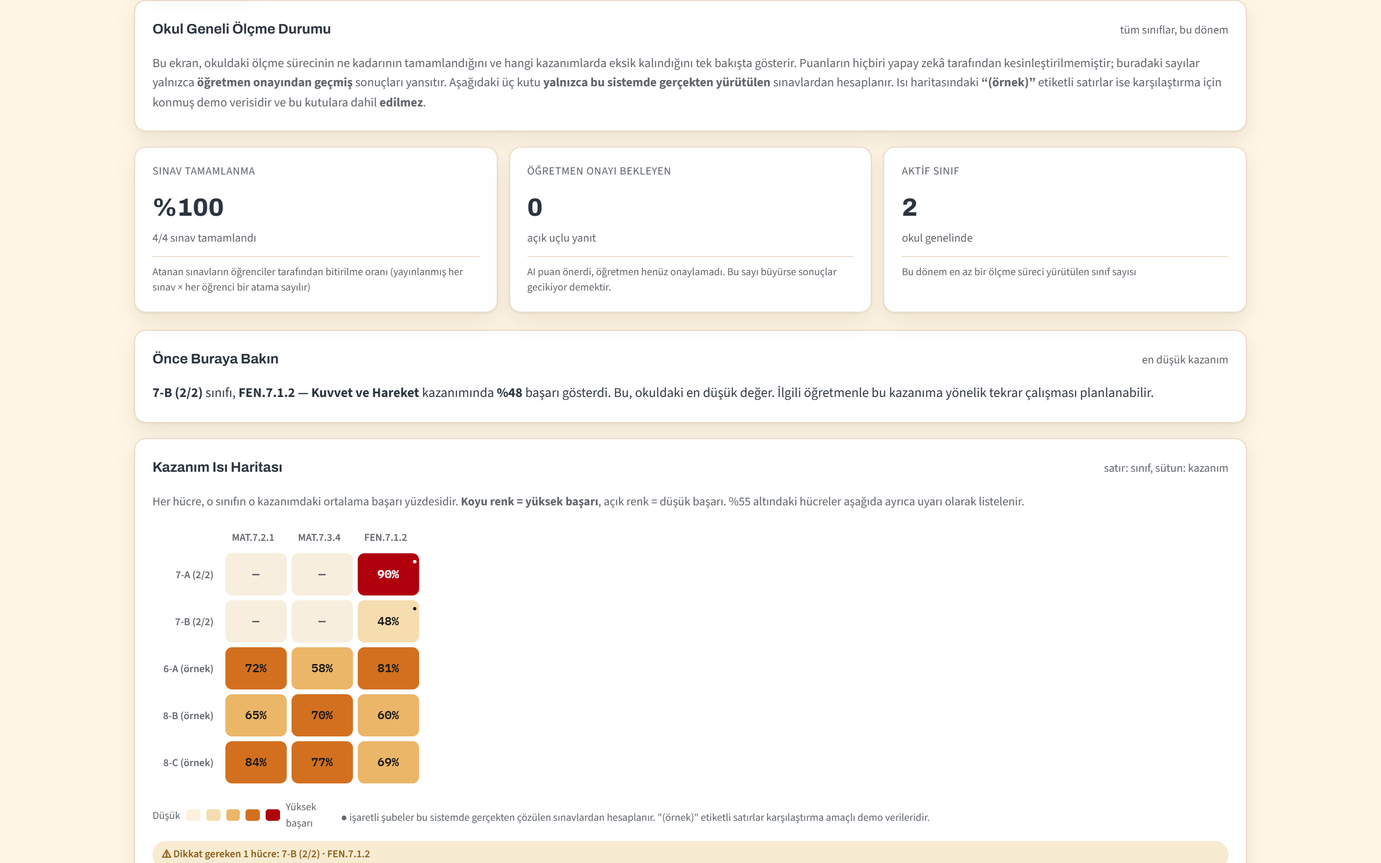
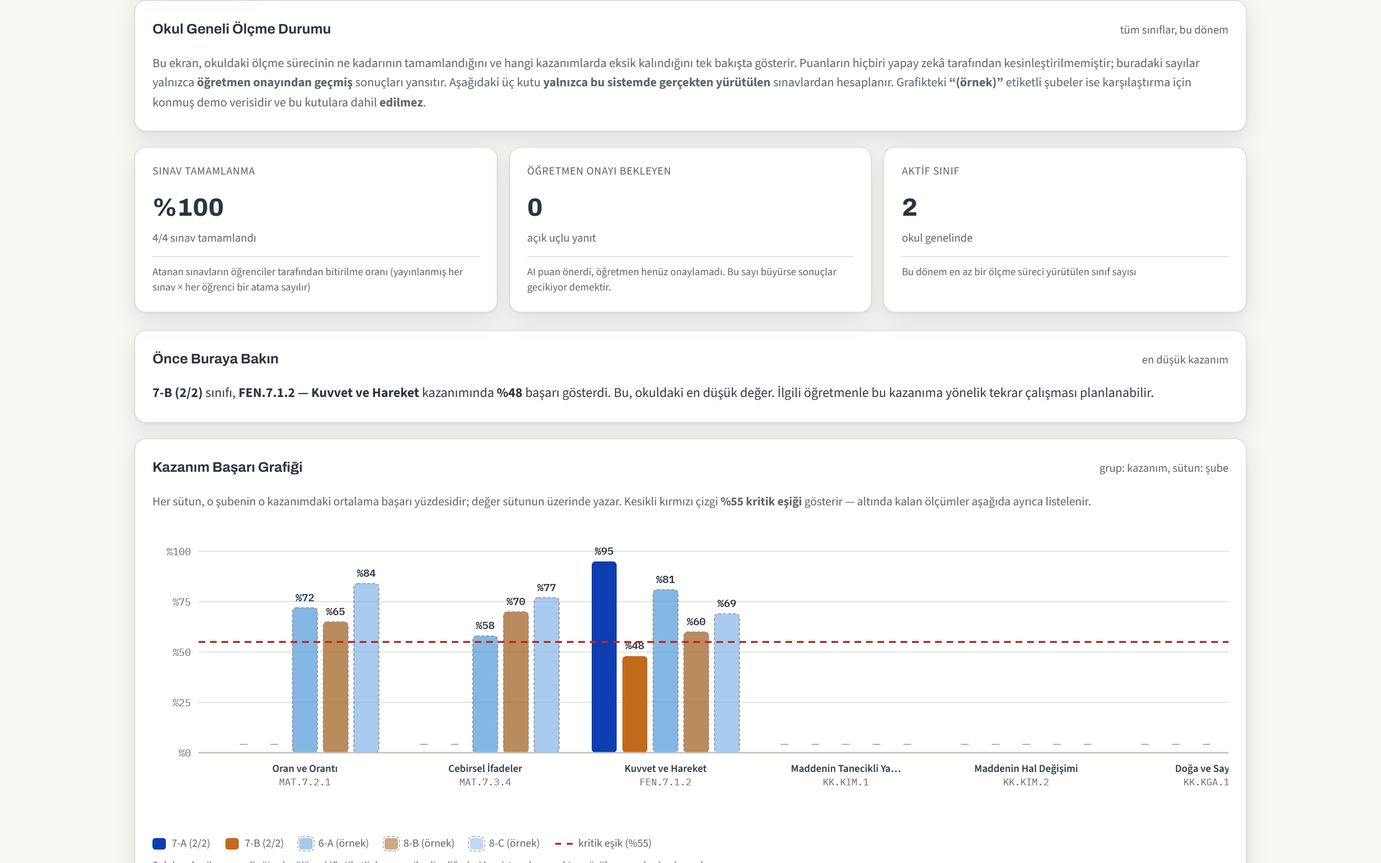
docs: depo eksiksizlik turu — belgeler, ekran görüntüleri, üründe kalan bayat metin (§50g)
Belgelerdeki bayat sayılar düzeltildi (243->263, 6->7 dosya, 326->336 ad,
Version, agents bandı §48b->§50f, README '48 bölüm'->'50 bölüm').
README'ye §49-§50 turları eklendi.

Ekran görüntüsü okunurken ÜRÜNDE bayat metin bulundu: üç kullanıcı metni
kaldırılmış ısı haritasına atıf yapıyordu. Düzeltildi; kod yorumlarındaki
tarihsel ifadelere dokunulmadı. Betikteki ölü .heatmap seçicisi atıldı.

Ekran görüntüleri iki kez çekildi: ilki string düzeltmesinden önceydi ve
artık olmayan bir cümleyi sergiliyordu (§45.1'in aynısı). Düzeltme canlıya
alındıktan sonra yeniden çekildi. Konsol hatası 0.

263/263 · lint temiz · öz-kontrol 336 ad %100 · Version 518cdeb7

diff --git a/public/app.js b/public/app.js
@@ -1397,7 +1397,7 @@ const DEMO_ADIMLARI = [
     hazir: function () { return state.examStatus === "graded"; },
     kilit: "Önce değerlendirmeleri onaylayıp sonuçları yayınlayın" },
   { no: 5, rol: "admin", sekme: null, roleAd: "Eğitim Yöneticisi",
-    aciklama: "Öğretmenin yayınladığı sonuçlar analiz ekranına ve kazanım ısı haritasına düştü.",
+    aciklama: "Öğretmenin yayınladığı sonuçlar analiz ekranına ve kazanım başarı grafiğine düştü.",
     sonraki: "Demoyu Bitir",
     hazir: function () { return true; },
     kilit: "" },
@@ -7369,7 +7369,7 @@ function misconceptionHtml() {
 
   return '<div class="card" style="margin-top:18px;">' +
     '<div class="card-head"><h3>Kavram Yanılgısı Analizi</h3>' +
-    '<span class="hint">ısı haritası "hangi kazanım zayıf" der, bu bölüm "neden zayıf" der</span></div>' +
+    '<span class="hint">başarı grafiği "hangi kazanım zayıf" der, bu bölüm "neden zayıf" der</span></div>' +
     '<div class="mis-giris">Sınıfın açık uçlu yanıtlarında <b>en az iki öğrencide tekrarlayan</b> ' +
     "hatalar gruplanır. Bu bir puanlama değildir, hiçbir öğrencinin notunu etkilemez; " +
     "yarın sınıfta neyi tekrar anlatacağınıza karar vermeniz içindir. " +
@@ -8331,7 +8331,7 @@ function renderAdmin() {
     'eksik kalındığını tek bakışta gösterir. Puanların hiçbiri yapay zekâ tarafından ' +
     'kesinleştirilmemiştir; buradaki sayılar yalnızca <b>öğretmen onayından geçmiş</b> sonuçları yansıtır. ' +
     'Aşağıdaki üç kutu <b>yalnızca bu sistemde gerçekten yürütülen</b> sınavlardan hesaplanır. ' +
-    'Isı haritasındaki <b>“(örnek)”</b> etiketli satırlar ise karşılaştırma için konmuş demo verisidir ' +
+    'Grafikteki <b>“(örnek)”</b> etiketli şubeler ise karşılaştırma için konmuş demo verisidir ' +
     've bu kutulara dahil <b>edilmez</b>.' +
     '</div></div>' +
 

diff --git a/README.md b/README.md
@@ -40,11 +40,15 @@ rubrik **önerir**. Onaylayan her zaman insandır.
 
 ### Son değişiklikler — 6 Eylül 2026
 
-Proje günlüğü `PROGRESS.md`'dir ve **48 bölümdür**; her madde kök nedeni ve
+Proje günlüğü `PROGRESS.md`'dir ve **50 bölümdür**; her madde kök nedeni ve
 ölçüm sonucuyla yazılır. Son turlar:
 
 | | |
 |---|---|
+| **Keşif Kampüsü — belgeye kilitli üretim** (§49-§50) | Okulun kendi atölye müfredatı ürüne girdi: üç atölye (Kimya ve İnsan Bilimleri · Kişisel Gelişim · Fizik) ve **18 kazanım**, hepsi okulun kendi ders belgesine bağlı. "Kazanımdan" modunda üretim o belgeye **kilitlenir** — model belgenin dışına çıkamaz, belge okunamazsa **üretim hiç yapılmaz** ve sebebi ekranda yazar. Kaynak metin 6.000 karakteri aşarsa kırpma **sessiz olmaz**: kaç karakterin dışarıda kaldığı yazılır. Kazanım metinleri uydurulmadı; belgelerin kendi `KAZANIMLAR` bölümlerinden alındı, türetilenler kodda **türetme olarak işaretlendi**. |
+| **Kazanım başarı grafiği** (§49) | Isı haritasının yerini gruplu sütun grafiği aldı: grup = kazanım, sütun = şube, yüzde sütunun üzerinde, **%55 kritik eşik** kesikli çizgiyle. Eşik çizgisi paletten bağımsız kendi belirtecini kullanır ve **kırmızı kalır** — uyarı rengi marka rengine karışmasın diye. |
+| **Renk kimliği** (§49-§50) | Palet lacivert + turuncuya alındı (`#0d3db0` · `#F2994A`), logo dâhil. Tonlar **ölçülerek** ayrıldı: `#F2994A` beyaz üstünde 2,23:1 olduğu için metin taşıyan rollerde `#9a5410` kullanılıyor (beyazda **5,75** · soft zeminde **4,92** — ikisi de WCAG AA), parlak ton yalnızca çizgi ve vurguda. |
+| **Göç yazılmasaydı sessiz veri kaybı olacaktı** (§50) | Atölyeler önce *sınıf* listesindeydi; müfredat eksenine taşınınca daha önce siteyi açmış her tarayıcıda o kazanımların sınıfı listede bulunmaz ve **hiçbir seçimde görünmez** olacaktı. İki ayrı göç yazıldı: biri eski değeri doğru alana taşır, diğeri sürümle gelen yeni kazanımları kayıtlı listeye **yalnızca ekler** (kullanıcının sildiğini geri getirmez). Canlıda gerçek bayat kayıtla ölçüldü. |
 | **Sınıf kodu kaldırıldı** (§43) | Cihazlar arası paylaşım bir *oda koduyla* korunuyordu — kimlik doğrulama değildi: kodu bilen herkes o sınıfın öğrenci yanıtlarını okuyabiliyor ve geri alınamaz biçimde silebiliyordu. Özellik uçlarıyla, tablolarıyla ve veritabanı bağlamasıyla söküldü. **Bedeli açıkça yazıldı:** ürün artık tek cihazda çalışır. |
 | **Yedek model gerçekten çalışır oldu** (§43) | Yedek *tanımlıydı ama devreye giremiyordu* (secret yoktu). Çözüm anahtar almak değil kodu okumak oldu; ayrıntısı [§3.1](#31-tek-sağlayıcıya-bağımlı-değil--otomatik-yedek)'de. |
 | **Analiz turu: 2 gerçek kusur + 3 küçük** (§44) | En ağırı: boş kriter adıyla sınav **yayınlanabiliyordu** ve hata ancak *puanlama anında* çıkıyordu. Ölçüt tek yere alındı; şerit artık sebebi yazıyor. |
@@ -61,16 +65,14 @@ kusurlar önce ölçülür, sonra kapatılır ve bedeli varsa bedeli de yazılı
 
 | | |
 |---|---|
-> ⚠ **Aşağıdaki beş ekran görüntüsü 6 Eylül 2026 · §48b tarihlidir ve BAYATTIR.**
-> Ürün o tarihten sonra krem/bordo paletten mavi/su yeşiline geçti ve kazanım ısı
-> haritasının yerini gruplu sütun grafiği aldı (§49). Görüntüler henüz yenilenmedi;
-> yenilemek için `node tools/ekran-goruntusu-al.mjs` — canlıdan, gerçek model
-> çağrısıyla üretir.
+> ℹ Ekran görüntüleri `tools/ekran-goruntusu-al.mjs` ile **canlı sistemden**,
+> gerçek model çağrısıyla üretilir — sahne kurgulanmaz. Palet lacivert + turuncu
+> (§50), kazanım panosunda ısı haritası yerine **gruplu sütun grafiği** vardır (§49).
 
 | <img src="docs/ekran/01-icerik-uzmani.png" alt="İçerik Uzmanı paneli — AI'ın ürettiği soru taslakları, her çeldirici için kavram yanılgısı gerekçesi ve onay/red düğmeleri" width="100%"> | <img src="docs/ekran/02-ogretmen-degerlendirme.png" alt="Öğretmen paneli — AI'ın kriter bazında puan önerisi, güven skoru ve öğrenciye geri bildirim taslağı" width="100%"> |
 | **İçerik Uzmanı** — yapay zekâ soru taslağı üretir; her çeldiricinin hangi kavram yanılgısını ölçtüğü yazılıdır. Onaylanmadan havuza girmez. | **Öğretmen** — puan önerisi **kriter bazında** gelir, her kriter için gerekçesiyle. Altta öğrenciye gidecek geri bildirim **taslağı** durur; öğretmen aktarmadan gitmez. |
 | <img src="docs/ekran/03-ogrenci-karne.png" alt="Öğrenci karnesi — büyük nihai puan, her soruda öğrencinin kendi yanıtı ve puanın hangi ölçütten geldiği" width="100%"> | <img src="docs/ekran/04-egitim-yoneticisi.png" alt="Eğitim Yöneticisi paneli — okul geneli tamamlanma, kazanım başarı grafiği ve gerçek/örnek satır ayrımı" width="100%"> |
-| **Öğrenci** — nihai puan, kendi yazdığı yanıt ve *"puanın nereden geldiği"*. Ekranda **"yapay zekâ bu puanı önerdi, öğretmenin okuyup onayladı"** yazar. | **Eğitim Yöneticisi** — kazanım ısı haritası ve okul geneli durum. Gerçek şubeler `●` ile, karşılaştırma verisi `(örnek)` etiketiyle ayrılır. |
+| **Öğrenci** — nihai puan, kendi yazdığı yanıt ve *"puanın nereden geldiği"*. Ekranda **"yapay zekâ bu puanı önerdi, öğretmenin okuyup onayladı"** yazar. | **Eğitim Yöneticisi** — kazanım başarı grafiği ve okul geneli durum. Gerçek şubeler `●` ile, karşılaştırma verisi `(örnek)` etiketiyle ayrılır. |
 | <img src="docs/ekran/05-veli.png" alt="Veli paneli — yalnızca kendi çocuğunun onaylanmış sonuçları; sınıf ortalaması ve sıralama yok" width="100%"> | |
 | **Veli** — yalnızca kendi çocuğunun **onaylanmış** sonucu. Sınıf ortalaması, sıralama ve AI'ın ham puan önerisi veliye **hiç gitmez**. | |
 
@@ -145,7 +147,7 @@ güven skoru · geri bildirim taslağı`"] -->|öneri| H
 onaylar ya da puanı değiştirir`"] --> I["`**📄 Öğrenci Karnesi**
 nihai puan · kendi yanıtı · puan kırılımı`"]
     H --> J["`**📊 Kazanım Analizi**
-ısı haritası · madde analizi · kavram yanılgısı`"]
+başarı grafiği · madde analizi · kavram yanılgısı`"]
     J -.->|"tekrar sorusu üret"| A
 
     C -.-> L
@@ -260,7 +262,7 @@ taraf odur.
 | **İçerik Uzmanı**<br><sub>2 sekme</sub> | Kaynak metni yükler (yapıştır · `.txt` · `.md` · **PDF**) veya Müfredat Kitaplığı'ndan sayfa aralığı seçer; ders, sınıf ve **MEB kazanımını** belirler; yapay zekânın ürettiği çoktan seçmeli ve açık uçlu taslakları — her çeldiricinin hangi kavram yanılgısını ölçtüğüyle birlikte — inceler. | Soru `ai_generated` durumunda bekler; **onaylanmadan havuza girmez.** Onay ve red kararlarının ikisi de denetim izine yazılır. |
 | **Öğretmen**<br><sub>4 sekme</sub> | Havuzdan kazanım/zorluk/türe göre sınav kurar, **çoktan seçmeli soru puanını belirler**, süre önerilerini değiştirebilir; açık uçlu sorular için rubrik tanımlar (yapay zekâ taslak önerir); **Bloom düzey dengesi** sınavın ezber mi ölçtüğünü söyler; puan önerilerini *en düşük güvenli en üstte* sırayla inceler; madde analizi ve kavram yanılgısı kümelerini görür. | Puan `aiEvals`'ta durur; öğretmen onaylayana kadar **öğrenciye ulaşmaz.** Geri bildirim taslağı da ayrı bir kutuda bekler, "Nota Aktar" denmeden gitmez. |
 | **Öğrenci**<br><sub>3 sekme</sub> | Geri sayımlı ekranda sınavı çözer; açık uçlu yanıtlar otomatik kaydedilir (sayfa yenilense de kaybolmaz); metne dayalı sorularda kaynak metin soruyla birlikte gösterilir. Karnesinde **nihai puanını**, her soruda **kendi yazdığı yanıtı** ve puanın hangi ölçütten geldiğini görür. | Karne yalnızca öğretmen **yayınladıktan** sonra açılır. Karnede puanı yapay zekânın mı önerdiği, öğretmenin mi değiştirdiği **açıkça yazar.** |
-| **Eğitim Yöneticisi**<br><sub>tek sayfa</sub> | Okul geneli tamamlanma, bekleyen onay sayısı, **kazanım ısı haritası**, öğretmen–yapay zekâ uyum ölçümü, **risk altındaki öğrenci listesi** (ABC çerçevesi: devam · davranış · başarı), **Excel/CSV dışa aktarma** ve **Yapay Zekâ Karar Günlüğü** (CSV/JSON indirilebilir denetim izi). Isı haritasında %55 altı hücreler ayrıca uyarı olarak listelenir ve tek tıkla o kazanım için yeni soru üretimine döner. | Panodaki sayılar **yalnızca öğretmen onayından geçmiş** sonuçlardan hesaplanır; onaylanmamış hiçbir puan buraya yansımaz. Risk listesi bir **tahmin değil, bir özettir**; müdahale kararı insanındır. |
+| **Eğitim Yöneticisi**<br><sub>tek sayfa</sub> | Okul geneli tamamlanma, bekleyen onay sayısı, **kazanım başarı grafiği**, öğretmen–yapay zekâ uyum ölçümü, **risk altındaki öğrenci listesi** (ABC çerçevesi: devam · davranış · başarı), **Excel/CSV dışa aktarma** ve **Yapay Zekâ Karar Günlüğü** (CSV/JSON indirilebilir denetim izi). Grafikte %55 kritik eşiğin altında kalan sütunlar ayrıca uyarı olarak listelenir ve tek tıkla o kazanım için yeni soru üretimine döner. | Panodaki sayılar **yalnızca öğretmen onayından geçmiş** sonuçlardan hesaplanır; onaylanmamış hiçbir puan buraya yansımaz. Risk listesi bir **tahmin değil, bir özettir**; müdahale kararı insanındır. |
 | **Veli**<br><sub>salt okunur</sub> | Yalnızca **kendi çocuğunun** öğretmen onayından geçmiş sonuçlarını, kazanım bazlı güçlü/gelişime açık alanlarını ve öğretmenin onayladığı geri bildirimini görür. | Yapay zekânın ham puan önerisi veliye **asla ulaşmaz**; öğretmen yayınlamadıysa veli hiçbir şey görmez. **Sınıf ortalaması, sıralama ve başka öğrenci bilgisi bu ekranda yer almaz.** Sınav bütünlüğü sinyali veliye **ancak öğretmen onaylarsa** ve suçlayıcı olmayan dille iletilir. |
 
 **Brief'in üç akışıyla eşleşme:** Akış 01 (İçerik Uzmanı: kaynak → kazanım →
@@ -563,7 +565,7 @@ gerçekten ürettiği çıktılardır; değerlendirme yine canlı çalışır.
 5. **Öğretmen → 3. Sekme**'de AI'nin puan/gerekçe önerisini görün; tek tıkla
    onaylayın veya puanı değiştirip onaylayın.
 6. **Öğrenci → 3. Sekme**'de karneyi, **Eğitim Yöneticisi** panelinde ise
-   kazanım ısı haritasının canlı güncellendiğini gösterin.
+   kazanım başarı grafiğinin canlı güncellendiğini gösterin.
 
 > **Bu akıştaki yapay zekâ adımları simülasyon DEĞİLDİR.** Soru üretimi,
 > rubrik taslağı ve açık uçlu puan/gerekçe önerisi canlı sistemde
@@ -642,7 +644,7 @@ bir alan adı için `wrangler.jsonc` içindeki yorumlu `routes` bloğunu etkinle
   başına tutulur; öğretmen tüm sınıfın açık uçlu yanıtlarını tek kuyrukta,
   **AI güveni en düşük olan en üstte** görür. Kazanım yüzdeleri tüm
   öğrencilerin öğretmen onayından geçmiş gerçek sonuçlarından ortalanır.
-  Isı haritasındaki *karşılaştırma* sınıfları (6-A, 8-B, 8-C) demo verisidir
+  Grafikteki *karşılaştırma* şubeleri (6-A, 8-B, 8-C) demo verisidir
   ve arayüzde "(örnek)" etiketiyle işaretlidir — canlı şubeler gerçek veriden
   hesaplanır. Mekanizma gerçek, karşılaştırma sınıfları simüle.
 - **Yedek, kota tükenmesine karşı koruma DEĞİLDİR.** Yedek model
@@ -772,8 +774,8 @@ sınırı vardır.
 | **Bloom bilişsel düzey dengesi** | Sınav ezber mi ölçüyor? Alt düzey (hatırlama/anlama) ve üst düzey (uygulama/analiz/değerlendirme/yaratma) dağılımı sınav kurarken görünür. **Hedef oran dayatılmaz** — ölçmede sabit bir "doğru oran" yoktur; yalnızca iki uç bildirilir: hiç üst düzey soru yoksa *"sınav büyük olasılıkla ezber ölçüyor"*, hiç alt düzey yoksa *"temel bilgi hiç ölçülmüyor"* |
 | **Madde analizi** *(klasik test kuramı)* | Üretilen sorunun **iyi bir ölçme aracı olup olmadığını** ölçer: güçlük indeksi (p) ve ayırt edicilik indeksi (d). En değerli sinyal **negatif d** — iyi öğrenciler yanlış, zayıflar doğru yanıtlıyorsa soru ya da cevap anahtarı hatalıdır. **İşlevsiz çeldirici** (hiç kimsenin seçmediği şık) da işaretlenir. Sınıf 10 kişiden azsa sonuç "gösterge niteliğindedir" uyarısıyla verilir — istatistiksel dürüstlük. AI çağrısı yapılmaz, saf hesap |
 | **Öğretmen-AI uyumu** *(kalibrasyon)* | Brief'in *"değerlendiriciler arasında tutarsızlık"* sorununa doğrudan cevap. AI cimri mi cömert mi davranıyor, ortalama sapma kaç puan, kaç yanıtı olduğu gibi onayladınız. **Güven skorunun kendisini de denetler:** AI "eminim" dediğinde gerçekten daha isabetli mi? Değilse *"kuyruk sıralamasına bu veriyle güvenmeyin"* uyarısı çıkar |
-| **Kavram yanılgısı kümeleme** | Isı haritası *"hangi kazanım zayıf"* der; bu bölüm **"neden zayıf"** der. Sınıfın açık uçlu yanıtlarında en az iki öğrencide tekrarlayan hataları gruplar, yanıtlardan **birebir alıntı** gösterir ve öğretmene tek cümlelik somut öneri verir. Öğrenci adı yapay zekâya gönderilmez; hiçbir puanı etkilemez |
-| **Kapalı döngü** | Isı haritasında %60 altındaki kazanım için "tekrar sorusu üret" düğmesi; İçerik Uzmanı paneline geçip kazanımı seçer. Zincir kapanır: içerik → sınav → değerlendirme → analiz → **yeni içerik** |
+| **Kavram yanılgısı kümeleme** | Başarı grafiği *"hangi kazanım zayıf"* der; bu bölüm **"neden zayıf"** der. Sınıfın açık uçlu yanıtlarında en az iki öğrencide tekrarlayan hataları gruplar, yanıtlardan **birebir alıntı** gösterir ve öğretmene tek cümlelik somut öneri verir. Öğrenci adı yapay zekâya gönderilmez; hiçbir puanı etkilemez |
+| **Kapalı döngü** | Grafikte %60 altındaki kazanım için "tekrar sorusu üret" düğmesi; İçerik Uzmanı paneline geçip kazanımı seçer. Zincir kapanır: içerik → sınav → değerlendirme → analiz → **yeni içerik** |
 | **Otomatik yedek sağlayıcı** | Birincil sağlayıcıda kesinti olursa sistem yedeğe geçer ve **hangi modelin yanıtladığını ekranda yazar** (§3.1). Yedek yalnızca gerçek arızada devreye girer — ölçme ölçütü sınav içinde değişmesin diye |
 | **Değerlendirme önbelleği** | Aynı yanıt + aynı rubrik + aynı model → model **yeniden çağrılmaz**. Ölçüldü: 6012 ms → **0 ms**. Başarısız değerlendirme asla önbelleğe girmez; önbellekten gelen sonuç arayüzde işaretlenir |
 | **Sınav bütünlüğü kaydı** | Sekme değişimi, odak kaybı, tam ekrandan çıkış ve **yanıta metin yapıştırma** kaydedilir; öğretmene bağlam olarak sunulur. Hile *önleme* iddiası yok — tarayıcı tabanlı hiçbir sistem bunu yapamaz. Öğrenci ne kaydedildiğini görür; gizli izleme yok; hiçbir puanı otomatik etkilemez |

diff --git a/PROGRESS.md b/PROGRESS.md
@@ -7258,3 +7258,58 @@ konsol hatası           : 0
 ```
 
 263/263 · lint temiz · öz-kontrol 336 ad %100.
+
+### 50g. DEPO EKSİKSİZLİK TURU — belgeler, ekran görüntüleri ve ÜRÜNDE KALAN BAYAT METİN (6 Eylül 2026)
+
+**İstek (kullanıcı):** *"GitHub'a pushla, orası eksiksiz olsun."*
+
+#### Belgelerdeki bayat sayılar
+
+| Dosya | Neydi | Ne oldu |
+|---|---|---|
+| `DEVRALAN_PROMPT.md` | 243/243 · 6 dosya · 326 ad · Version `fff8f306` · test dökümü eski | **263/263 · 7 dosya · 336 ad · `712f8b0c`** · döküm yeniden yazıldı |
+| `DEVIR.md` | 243/243 · "243 test, 6 dosya" · 326 ad | **263/263 · 7 dosya · 336 ad** |
+| `agents.md` | "(243 test)" · bant "§48b" | **"(263 test)"** · bant **"§50f"** |
+| `README.md` | "48 bölümdür" · 8 yerde "ısı haritası" | **"50 bölümdür"** · hepsi "kazanım başarı grafiği" |
+
+README'ye §49-§50 turları eklendi: Keşif Kampüsü ve belge kilidi, başarı
+grafiği, renk kimliği ve **iki göç** (yazılmasaydı sessiz veri kaybı olacaktı).
+
+#### 🔴 ÜRÜNDE KALAN BAYAT METİN — ekran görüntüsü ortaya çıkardı
+
+Yenilenen `04-egitim-yoneticisi.png` okunurken panelin giriş paragrafında şu
+görüldü: *"**Isı haritasındaki** "(örnek)" etiketli satırlar..."* — ısı
+haritası §49'da kaldırılmıştı. Ürünün kendisi olmayan bir bileşene atıf
+yapıyordu. Aynı sınıftan iki metin daha bulundu:
+
+```
+demo akışı adım metni : "...kazanım ısı haritasına düştü."
+kavram yanılgısı ipucu: "ısı haritası 'hangi kazanım zayıf' der..."
+panel giriş paragrafı : "Isı haritasındaki '(örnek)' etiketli satırlar..."
+```
+
+Üçü de düzeltildi. **Kod yorumlarındaki tarihsel "ısı haritası" ifadelerine
+DOKUNULMADI** — onlar geçmişi anlatıyor, bugünü değil.
+
+`tools/ekran-goruntusu-al.mjs` içindeki `.heatmap` seçicisi de **ölüydü**:
+o sınıf §49'da kaldırıldı ve seçici hiç eşleşmiyordu; kadraj sessizce
+`#panel-admin .card`'dan geliyordu. Ölü seçici atıldı, etiketi düzeltildi.
+
+#### Ekran görüntüleri
+
+**İKİ KEZ çekildi.** İlk çekim string düzeltmesinden ÖNCEYDİ, yani 04 numaralı
+görüntü artık üründe olmayan bir cümleyi sergiliyordu — §45.1'in aynısı.
+Düzeltme canlıya alındıktan sonra yeniden çekildi.
+
+```
+01-icerik-uzmani      turuncu=334  lacivert=257   bordo=46
+04-egitim-yoneticisi  turuncu=21   lacivert=1318  bordo=276
+```
+
+04'teki kırmızı, kritik eşik çizgisidir — bilerek paletten bağımsız.
+Konsol hatası **0** (betiğin kendi ölçümü).
+
+**DÜRÜSTLÜK NOTU:** yukarıdaki sayaç kaba bir RGB kova sayımıdır, kesin bir
+palet denetimi değildir; `01`'de 87 piksel "turkuaz" kovasına düştü. CSS'te
+turkuaz hex **kalmadığı** ayrıca `grep` ile doğrulandı (§50c), dolayısıyla bu
+sayı sınıflandırıcının gevşekliğidir — üründe turkuaz olduğu anlamına gelmez.

diff --git a/DEVIR.md b/DEVIR.md
@@ -21,9 +21,9 @@ tamamı `PROGRESS.md`'de.
 |---|---|
 | Dal | `main` = `final-birlestirme` = `a1afcce` (ikisi aynı, ayrışma yok) |
 | Canlı | `mihenk.bies.workers.dev` — deploy edilen `app.js`, `app.css` ve `index.html` diskle **SHA-256 eş** |
-| Test | **243/243** |
+| Test | **263/263** (7 dosya) |
 | Lint (`tsc --noEmit`) | temiz |
-| Öz-kontrol | **326 ad · eksik 0 · kapsama %100** |
+| Öz-kontrol | **336 ad · eksik 0 · kapsama %100** |
 | `check:config` | exit 0 |
 | Konsol hatası | 0 |
 | AI | Workers AI · `@cf/meta/llama-3.3-70b-instruct-fp8-fast` · `ready:true` |
@@ -38,8 +38,8 @@ Doğrulama komutları:
 git clone https://github.com/EsatKaratas/mihenk.git && cd mihenk && npm install
 git rev-parse --short HEAD
 npm run lint                        # sessiz
-npm test                            # 243/243
-node tools/ozkontrol-dogrula.mjs    # 326 ad · kapsama %100
+npm test                            # 263/263
+node tools/ozkontrol-dogrula.mjs    # 336 ad · kapsama %100
 npm run check:config                # exit 0
 curl -s https://mihenk.bies.workers.dev/api/health
 ```
@@ -67,7 +67,7 @@ Zinciri beş rol taşıyor:
 4. **Yapay zekâ** açık uçlu yanıtlara rubriğe göre puan **önerir** + gerekçe yazar.
 5. **Öğretmen** her öneriyi görür, değiştirir ya da onaylar. **Nihai puan
    yalnızca burada oluşur.** Sonuçlar öğretmen "yayınla" demeden öğrenciye gitmez.
-6. **Eğitim Yöneticisi** okul geneli tamamlanma, kazanım ısı haritası, öğretmen
+6. **Eğitim Yöneticisi** okul geneli tamamlanma, kazanım başarı grafiği, öğretmen
    kalibrasyonu ve yapay zekâ karar günlüğünü görür.
 7. **Veli** yalnızca kendi çocuğunun **onaylanmış** sonuçlarını görür. Sınıf
    ortalaması, sıralama ve AI'ın ham puan önerisi veliye **asla** gitmez.
@@ -521,7 +521,7 @@ public/
   app.css               Tema (açık/koyu)
   mufredat/*.json       606 MEB öğrenme çıktısı
   _headers              CSP ve güvenlik başlıkları
-test/                   243 test, 6 dosya
+test/                   263 test, 7 dosya
 tools/
   ozkontrol-dogrula.mjs selfCheck listesi ↔ tanımlar (çift yönlü)
   check-config.mjs      JSONC doğrulayıcı (çapraz platform)

diff --git a/DEVRALAN_PROMPT.md b/DEVRALAN_PROMPT.md
@@ -40,8 +40,8 @@ Hiçbir şeye dokunmadan önce şunları çalıştır ve **çıktılarını gös
 npm install
 git rev-parse --short HEAD          # ac606cb ya da daha yenisi
 npm run lint                        # sessiz olmalı
-npm test                            # 243/243, 6 dosya
-node tools/ozkontrol-dogrula.mjs    # 326 ad · kapsama %100
+npm test                            # 263/263, 7 dosya
+node tools/ozkontrol-dogrula.mjs    # 336 ad · kapsama %100
 npm run check:config                # exit 0
 node --check public/app.js          # sessiz
 curl -s https://mihenk.bies.workers.dev/api/health
@@ -52,13 +52,14 @@ Beklenen test dökümü:
 
 ```
 test/guards.test.ts          105
+test/prompts.test.ts          47
 test/schemas.test.ts          44
-test/prompts.test.ts          36
 test/ai-lib.test.ts           24
 test/prompts-guvenlik.test.ts 19
 test/sayac-ve-yedek.test.ts   15
+test/atolye-ve-materyal.test.ts 9
                              ---
-                             243
+                             263
 ```
 
 Beklenen canlı çıktı:
@@ -245,13 +246,13 @@ Ortak ilke: **otomatik düzeltme değil, insana gösterme.** Bir kusuru gizleme.
 | | |
 |---|---|
 | Depo | dal `main`, `origin/main` ile eş, çalışma ağacı temiz |
-| Canlı Version | `fff8f306` |
-| Test | **243/243** (6 dosya) |
+| Canlı Version | `712f8b0c` |
+| Test | **263/263** (7 dosya) |
 | Lint (`tsc --noEmit`) | temiz |
-| Öz-kontrol | **326 ad · kapsama %100** |
+| Öz-kontrol | **336 ad · kapsama %100** |
 | Konsol hatası (5 rol, canlı) | **0** |
-| Yinelenen `id` | **0** (75 id) |
-| Canlı ↔ disk | `public/` altındaki **23 varlık SHA-256 eş** |
+| Yinelenen `id` | **0** |
+| Canlı ↔ disk | `app.js` · `app.css` · `index.html` · logo **SHA-256 eş** |
 | Yapay zekâ uçları | **7 uç + `/api/health` çalışıyor** |
 | Yedek model | çalışıyor (`fallbackSorunu: null`) |
 | Üretim süresi | **15-25 sn** (§48'de beceri temelli soruyla arttı) |

diff --git a/agents.md b/agents.md
@@ -8,7 +8,7 @@ setidir. Bir değişiklik önerirken önce burayı okuyun; burada yazan bir kura
 Bu proje **T3 Vakfı Creathon — Problem 2: Yapay Zekâ Destekli Ölçme ve
 Değerlendirme Sistemi** kapsamında geliştirilmektedir.
 
-> ## ⚠ GÜNCELLİK NOTU — 6 Eylül 2026 (PROGRESS §48b)
+> ## ⚠ GÜNCELLİK NOTU — 6 Eylül 2026 (PROGRESS §50f)
 >
 > **Bu dosyanın bir kısmı HEDEF mimariyi anlatır, KURULU olanı değil.** Kural
 > setinin kendisi geçerlidir; ama §2, §4 ve §5'teki bazı teknik ayrıntılar
@@ -22,7 +22,7 @@ Değerlendirme Sistemi** kapsamında geliştirilmektedir.
 > | §5 dosya ağacı (`routes/auth.ts`, `documents.ts`, `lib/rubric.ts`, `migrations/`) | Gerçek ağaç: `src/index.ts`, `src/routes/ai.ts`, `src/lib/{ai,guards,prompts}.ts`, `src/schemas/ai.ts`. `migrations/` yok |
 > | §4 `AI_TASKS_QUEUE` ile asenkron işleme | Queue **kullanılmıyor**; çağrılar senkron. (Ücretsiz planda Queues yüzünden `npm run deploy` kırılır — `deploy:demo` kullanılır) |
 > | §4 `max_tokens` **yaklaşık 600–800** | Bu sayı tek soru içindi. Bugün istek başına hesaplanır: `700 + soru×700`, tavan **5600** (§48). Sınır hâlâ AÇIKÇA verilir — "sınırsız üretim" yasağı aynen geçerlidir |
-> | §6 "yetkisiz rol erişemez" testi | Sunucuda rol olmadığı için yazılamaz. Yerine `test/guards.test.ts` ve `test/schemas.test.ts` (243 test) ile `tools/ozkontrol-dogrula.mjs` koşar |
+> | §6 "yetkisiz rol erişemez" testi | Sunucuda rol olmadığı için yazılamaz. Yerine `test/guards.test.ts` ve `test/schemas.test.ts` (263 test) ile `tools/ozkontrol-dogrula.mjs` koşar |
 > | §8 demo kontrol listesi (`d1 execute --remote`, test hesapları) | D1 ve hesap yok; demo tohumu istemcide (`loadDemoScenario`). §8.5'teki `/privacy-policy` ve `/robots.txt` maddeleri geçerlidir ve canlıda doğrulanmıştır |
 >
 > **Değişmeyen ve tam bağlayıcı olanlar:** §1 (Human-in-the-Loop), §7
